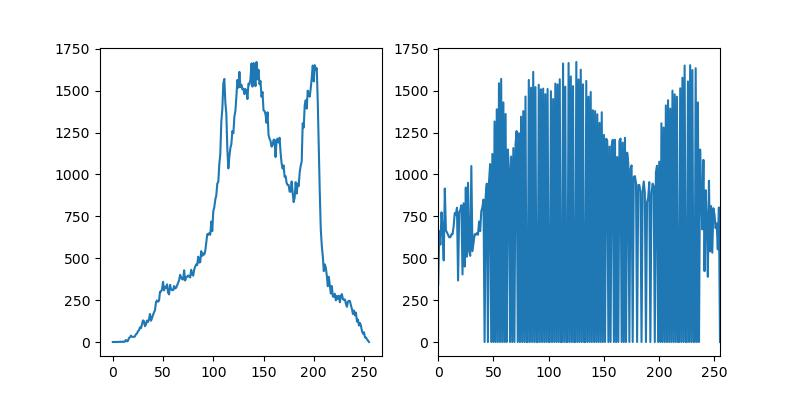
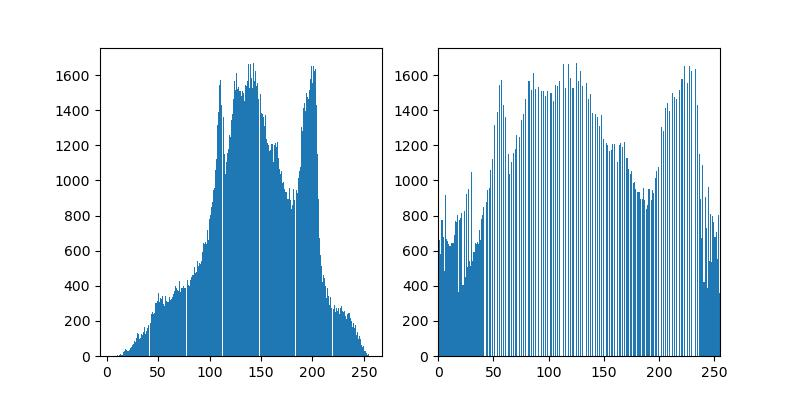
main

diff --git a/A/grayscale_histogram.py b/A/grayscale_histogram.py
@@ -4,22 +4,22 @@ import numpy as np
 
 # 计算直方图函数
 def histCover(img):
-    # 直方图计算
-    hist = cv.calcHist([img], [0], None, [256], [0, 255])
-    # 图片均衡化处理
-    equ = cv.equalizeHist(img)    
-    # 两张图片并排显示
-    cv.imshow('equalization', np.hstack((img, equ)))
+    equ = cv.equalizeHist(img)
+
+    cv.imshow("src", img)
+    cv.imshow("result", equ)
+    
     cv.waitKey(0)
     cv.imwrite("../result/A/equ_contrast.jpg", np.hstack((img, equ)))
 
     # 均衡化后直方图计算，显示均衡化对比效果
-    hist_equ = cv.calcHist([equ], [0], None, [256], [0, 255])
     plt.figure("对比图", figsize=(8, 4))
     plt.subplot(121)
-    plt.plot(hist)
+    plt.hist(img.ravel(), 256)
     plt.subplot(122)
-    plt.plot(hist_equ)
+    plt.hist(equ.ravel(), 256)
     plt.xlim([0, 255])
     plt.savefig("../result/A/histogram_contrast.jpg")
     plt.show()
+    
+    

diff --git a/A/main.py b/A/main.py
@@ -10,10 +10,10 @@ if __name__ == '__main__':
     # 将图片缩小，便于查看
     width, height = img.shape[:2][::-1]
     img_resize = cv.resize(img, (int(width*0.5), int(height*0.5)), interpolation=cv.INTER_CUBIC) 
-    # 灰度级切片展示两张图片对比
-    show_two_pictures(img_resize, grayscale_slice(img_resize, 100))
-    # 位平面切片展示8张位平面处理图
-    bit_plain_slice(img_resize)
+    # # 灰度级切片展示两张图片对比
+    # show_two_pictures(img_resize, grayscale_slice(img_resize, 100))
+    # # 位平面切片展示8张位平面处理图
+    # bit_plain_slice(img_resize)
     # 灰度直方图
     histCover(img_resize)
 
